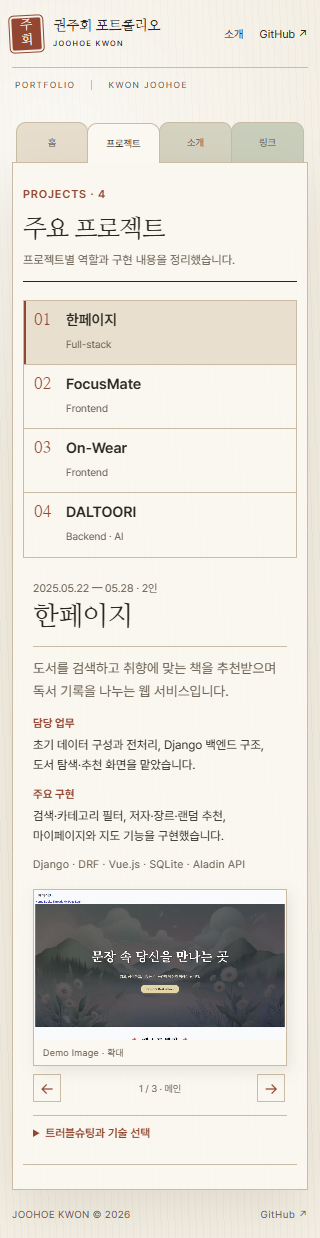
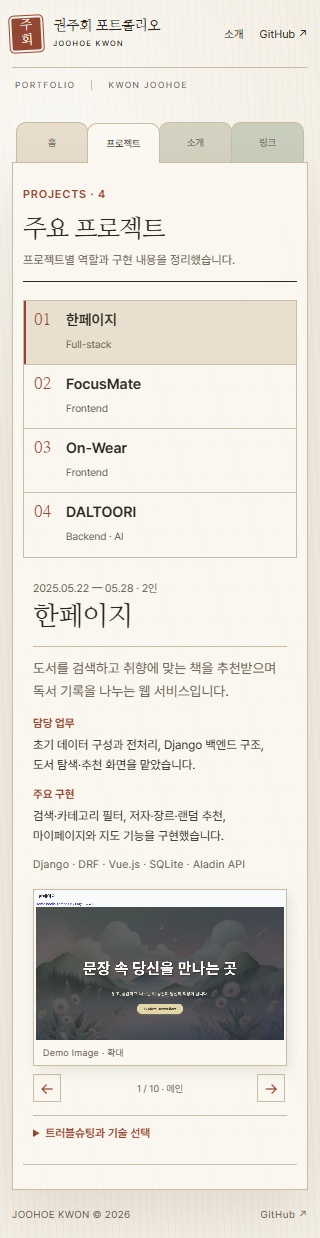
docs(t01): 전체 데모 화면 검증 기록

Changed region(s): [[0.0938, 0.706, 0.9062, 0.8901], [0.7812, 0.7674, 0.8125, 0.7981], [0.6875, 0.706, 0.7188, 0.7367]]

diff --git a/design.md b/design.md
@@ -36,7 +36,7 @@
 - 최상위 `홈·프로젝트·소개·링크`는 ARIA 탭으로 구성하며 한 번에 한 패널만 보여 준다. URL 해시로 각 패널을 바로 열 수 있다.
 - 소개 패널은 좌측 자기소개와 우측 두 폴라로이드를 유지한다. 1366×768 및 1920×1080에서는 전체 포트폴리오가 한 화면 안에서 기록철처럼 보인다.
 - 프로젝트 패널은 날짜 순서인 `한페이지·FocusMate·On-Wear·달투리`로 고정하고, 선택한 프로젝트의 기간·역할·서비스·담당 업무·주요 구현·기술을 같은 형식으로 교체한다.
-- 각 프로젝트에는 로컬에서 실행한 기존 프론트엔드 데모의 주요 화면을 캐러셀로 수록한다. 이전·다음 버튼, 현재 순서와 화면명을 제공하고 이미지를 누르면 원본 비율의 dialog에서 확인할 수 있다.
+- 각 프로젝트에는 원본 저장소와 이전 포트폴리오의 실행 가능한 프론트엔드를 대조해 캡처한 주요 화면을 캐러셀로 수록한다. 한페이지는 `09-pjt`의 원본 프론트와 SQLite 데이터를 직접 실행한 화면만 사용한다. 이전·다음 버튼, 현재 순서와 화면명을 제공하고 이미지를 누르면 원본 비율의 dialog에서도 같은 순서로 계속 탐색할 수 있다.
 - FocusMate·On-Wear·DALTOORI에는 각 저장소의 실제 로고를 본문에서 식별 가능한 크기로 표시하고 DALTOORI에는 수달 마스코트도 함께 사용한다.
 - 기술 선택과 트러블슈팅은 본문과 분리한 접이식 기록으로 둔다. README·소스·커밋에서 근거가 확인된 내용만 쓰고 사례가 없는 항목을 채우기 위해 만들지 않는다.
 - 프로젝트 명칭은 사용자가 확인한 이름을 따른다. `BookVerse` 표기를 `한페이지`로 고치고, 외부 독자가 알기 어려운 SSAFY 단계명은 쓰지 않는다.
@@ -57,7 +57,7 @@
 - OS의 prefers-reduced-motion이면 자동 움직임과 전환, smooth scroll을 해제한다. OS 설정이 켜진 동안 화면 버튼은 '움직임 줄이기 적용 중'으로 표시한다.
 - JavaScript가 없으면 사진은 정지하고 네 최상위 패널과 네 프로젝트 패널을 모두 읽을 수 있다.
 - native button을 사용하고 초점 테두리·hover·active를 구분한다.
-- 프로젝트 화면 확대는 native dialog를 사용하며 닫기 버튼과 바깥 영역 클릭, Escape를 지원한다.
+- 프로젝트 화면 확대는 native dialog를 사용하며 닫기 버튼과 바깥 영역 클릭, Escape를 지원한다. 확대 상태의 이전·다음 버튼과 좌우 방향키는 현재 프로젝트 안에서 순환하며 본문의 현재 화면도 함께 맞춘다.
 
 ## 프로젝트 사실 기준
 - On-Wear: 조직 README의 FE 역할과 `On-Wear-FE` develop 브랜치의 rnjswnghl 커밋을 사용한다.

diff --git a/docs/T01-log.md b/docs/T01-log.md
@@ -97,4 +97,12 @@
 - 네 프로젝트의 실제 빌드 라우트를 로컬 SPA fallback 서버에서 열어 주요 화면 15장을 캡처했다.
 - 한페이지 3장, FocusMate 4장, On-Wear 5장, DALTOORI 3장을 WebP로 최적화했다.
 - 프로젝트마다 한 화면만 보이고 이전·다음 버튼으로 순환하는 캐러셀을 구현했다. 번호와 화면명을 `aria-live`로 갱신한다.
+
+## 2026-09-15 · 원본 화면 재검증과 확대 캐러셀
+
+- 한페이지는 이전 포트폴리오의 별도 빌드를 제외하고 `09-pjt`의 Django 서버, SQLite 데이터, Vue 프론트엔드를 직접 실행해 다시 캡처했다. 메인·도서 목록/상세·독서 기록 목록/상세/작성·방문록·마이페이지·로그인·회원가입 10장을 수록했다.
+- FocusMate는 메인·스터디 목록/검색/결과/상세·방장/팀원 화면·활동 기록 8장, On-Wear는 메인·검색 입력/결과·로그인 상태 피팅룸·이미지 검색·추천·인기 상품 7장으로 보강했다. On-Wear의 기존 중복 피팅 이미지를 실제 피팅룸 화면으로 교체했다.
+- DALTOORI는 발음 녹음 화면을 더하고, 저장소 README의 `스크립트.gif`와 `종합피드백.gif`를 별도 기능 흐름 영역에 원본 애니메이션으로 배치했다.
+- 확대 dialog에도 이전·다음 버튼과 좌우 방향키 순환을 추가했다. 확대 화면을 넘기면 본문 캐러셀의 번호와 이미지도 함께 갱신된다.
+- 1366×768, 1920×1080, 390×844, 320×700에서 총 `10 / 8 / 7 / 4`장의 이미지 로딩, 본문·확대 캐러셀 순환, 키보드 탐색, 가로 넘침과 콘솔 오류를 확인했다.
 - FocusMate 인원을 5인으로 수정하고 프로젝트 로고 크기를 확대했다.
